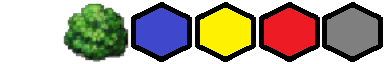
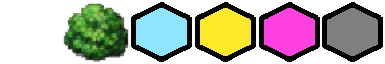
fallのやつだけスコアやりました

Changed region(s): [[0.3429, 0.125, 0.6545, 0.875], [0.6857, 0.125, 0.8416, 0.875]]

diff --git a/00_vivid2d 2.9 空のプロジェクト/game/src/game/scene_manager/scene/game_risult/game_risult.cpp b/00_vivid2d 2.9 空のプロジェクト/game/src/game/scene_manager/scene/game_risult/game_risult.cpp
@@ -1,13 +1,28 @@
 #include "game_risult.h"
 #include"../../scene_manager.h"
 #include"../../../object/player_manager/player_manager.h"
-CGame_Result::CGame_Result()
-{
+#include"../color_select/color_select.h"
 
+	const int CGame_Result::m_max_score=999999999;//最大スコア
+	const int CGame_Result::m_max_score_digiit=9;//表示桁数
+	const int CGame_Result::m_digit_width=32;
+	const int CGame_Result::m_digit_height=48;
+
+CGame_Result::CGame_Result()
+	:m_Player1_Ready(false)
+	,m_Player2_Ready(false)
+	, m_ (false)
+
+{
 }
 
 void CGame_Result::Initialize()
 {
+	m_Player1_Ready = false;
+	m_Player2_Ready = false;
+	m_Player1_Score_Pos = { 200,300 };
+	m_Player2_Score_Pos = {680,300};
+	m_ = false;
 }
 
 void CGame_Result::Update()
@@ -18,22 +33,167 @@ void CGame_Result::Update()
 	{
 		CSceneManager::GetInstance().Change(SCENE_ID::GAMEMAIN);
 	}
+	if (controller::Trigger(controller::DEVICE_ID::PLAYER1, controller::BUTTON_ID::B)||keyboard::Trigger(keyboard::KEY_ID::SPACE))
+		m_Player1_Ready = true;
+	if (controller::Trigger(controller::DEVICE_ID::PLAYER2, controller::BUTTON_ID::B) || keyboard::Trigger(keyboard::KEY_ID::SPACE))
+		m_Player2_Ready = true;
+	if (m_Player1_Ready && m_Player2_Ready)
+			CSceneManager::GetInstance().Change(SCENE_ID::GAMEMAIN);
+
 	if (CPlayer_Manager::GetInstance().Player1_Win() == true)
-		if (controller::Trigger(controller::DEVICE_ID::PLAYER1, controller::BUTTON_ID::B))
-			CSceneManager::GetInstance().Change(SCENE_ID::GAMEMAIN);
-	 if (CPlayer_Manager::GetInstance().Player2_Win() == true)
-		if (controller::Trigger(controller::DEVICE_ID::PLAYER2, controller::BUTTON_ID::B))
-			CSceneManager::GetInstance().Change(SCENE_ID::GAMEMAIN);
+	{
+		if (!CColor_Select::GetInstance().GetCyan() &&
+			!CColor_Select::GetInstance().GetYellow() &&
+			!CColor_Select::GetInstance().GetMagenta())
+		{
+			if (m_)return;
+			m_Player1_Score += 30;
+			m_ = true;
+		}
+		else if (!CColor_Select::GetInstance().GetCyan() && !CColor_Select::GetInstance().GetYellow())
+		{
+			if (m_)return;
+			m_Player1_Score += 20;
+			m_ = true;
+		}
+		else if (!CColor_Select::GetInstance().GetCyan() && !CColor_Select::GetInstance().GetMagenta())
+		{
+			if (m_)return;
+			m_Player1_Score += 20;
+			m_ = true;
+		}
+		else if (!CColor_Select::GetInstance().GetYellow() && !CColor_Select::GetInstance().GetMagenta())
+		{
+			if (m_)return;
+			m_Player1_Score += 20;
+			m_ = true;
+		}
+		else if (!CColor_Select::GetInstance().GetCyan()
+			|| !CColor_Select::GetInstance().GetYellow()
+			|| !CColor_Select::GetInstance().GetMagenta())
+		{
+			if (m_)return;
+			m_Player1_Score += 10;
+			m_ = true;
+
+		}
+	}
+	if (CPlayer_Manager::GetInstance().Player2_Win() == true)
+	{
+		if (!CColor_Select::GetInstance().GetCyan() &&
+			!CColor_Select::GetInstance().GetYellow() &&
+			!CColor_Select::GetInstance().GetMagenta())
+		{
+			if (m_)return;
+			m_Player2_Score += 30;
+			m_ = true;
+		}
+		else if (!CColor_Select::GetInstance().GetCyan() && !CColor_Select::GetInstance().GetYellow())
+		{
+			if (m_)return;
+			m_Player2_Score += 20;
+			m_ = true;
+		}
+		else if (!CColor_Select::GetInstance().GetCyan() && !CColor_Select::GetInstance().GetMagenta())
+		{
+			if (m_)return;
+			m_Player2_Score += 20;
+			m_ = true;
+		}
+		else if (!CColor_Select::GetInstance().GetYellow() && !CColor_Select::GetInstance().GetMagenta())
+		{
+			if (m_)return;
+			m_Player2_Score += 20;
+			m_ = true;
+		}
+		else if (!CColor_Select::GetInstance().GetCyan()
+			|| !CColor_Select::GetInstance().GetYellow()
+			|| !CColor_Select::GetInstance().GetMagenta())
+		{
+			if (m_)return;
+			m_Player2_Score += 10;
+			m_ = true;
+
+		}
+	}
+	
 }
 
 void CGame_Result::Draw()
 {
-	if (CPlayer_Manager::GetInstance().Draw_Battle() == true)
+	vivid::DrawText(40, "1P", vivid::Vector2{ 300,250 });
+	vivid::DrawText(40, "2P", vivid::Vector2{ 780,250 });
+
+	if (CPlayer_Manager::GetInstance().Draw_Battle())
 		vivid::DrawText(40, "DRAW", vivid::Vector2{ vivid::WINDOW_WIDTH * 0.5,vivid::WINDOW_HEIGHT * 0.5 });
-	 else if (CPlayer_Manager::GetInstance().Player1_Win() == true)
-		vivid::DrawText(40,"1PWIN", vivid::Vector2{ 350,250 });
-	 else if(CPlayer_Manager::GetInstance().Player2_Win() == true)
-		vivid::DrawText(40,"2PWIN", vivid::Vector2{830,250 });
+	 else if (CPlayer_Manager::GetInstance().Player1_Win())
+		vivid::DrawText(40,"WIN", vivid::Vector2{ 350,250 });
+	 else if(CPlayer_Manager::GetInstance().Player2_Win())
+		vivid::DrawText(40,"WIN", vivid::Vector2{830,250 });
+
+	if (m_Player1_Ready)
+		vivid::DrawText(40, "1POK", vivid::Vector2{ 350,350 });
+	if (m_Player2_Ready)
+		vivid::DrawText(40, "2POK", vivid::Vector2{ 830,350 });
+	
+
+	// 1P
+	{
+		int score = m_Player1_Score;
+		int digit_count = 1;
+
+		do
+		{
+			int digit = score % 10;
+
+			vivid::Rect rect;
+			rect.left = digit * m_digit_width;
+			rect.right = rect.left + m_digit_width;
+			rect.top = 0;
+			rect.bottom = m_digit_height;
+
+			vivid::Vector2 pos;
+			pos.x = m_Player1_Score_Pos.x +
+				m_digit_width * (m_max_score_digiit - digit_count);
+			pos.y = m_Player1_Score_Pos.y;
+
+			vivid::DrawTexture("data/number.png", pos, 0xffffffff, rect);
+
+			score /= 10;
+			++digit_count;
+
+		} while (score > 0 && digit_count <= m_max_score_digiit);
+	}
+
+	// 2P
+	{
+		int score = m_Player2_Score;
+		int digit_count = 1;
+
+		do
+		{
+			int digit = score % 10;
+
+			vivid::Rect rect;
+			rect.left = digit * m_digit_width;
+			rect.right = rect.left + m_digit_width;
+			rect.top = 0;
+			rect.bottom = m_digit_height;
+
+			vivid::Vector2 pos;
+			pos.x = m_Player2_Score_Pos.x +
+				m_digit_width * (m_max_score_digiit - digit_count);
+			pos.y = m_Player2_Score_Pos.y;
+
+			vivid::DrawTexture("data/number.png", pos, 0xffffffff, rect);
+
+			score /= 10;
+			++digit_count;
+
+		} while (score > 0 && digit_count <= m_max_score_digiit);
+	}
+	
+	
 }
 
 void CGame_Result::Finalize()

diff --git a/00_vivid2d 2.9 空のプロジェクト/game/src/game/scene_manager/scene/color_select/color_select.h b/00_vivid2d 2.9 空のプロジェクト/game/src/game/scene_manager/scene/color_select/color_select.h
@@ -15,8 +15,8 @@ public:
 	void ColorPic(void);
 
 	void IniColor();
-	bool GetBlue() { return m_Blue; }
-	bool GetRed() { return m_Red; }
+	bool GetCyan() { return m_Cyan; }
+	bool GetMagenta() { return m_Magenta; }
 	bool GetYellow() { return m_Yellow; }
 	static CColor_Select& GetInstance();
 
@@ -49,16 +49,16 @@ private:
 	static const std::string m_button_file[(int)COLOR::MAX];//ボタン画像名
 	static const int m_button_x[(int)COLOR::MAX];			//ボタンのx座標
 	static const int m_button_y;						    //ボタンのy座標
-	static const vivid::Vector2 m_Blue_Pos;
+	static const vivid::Vector2 m_Cyan_Pos;
 	static const vivid::Vector2 m_Yellow_Pos;
-	static const vivid::Vector2 m_Red_Pos;
+	static const vivid::Vector2 m_Magenta_Pos;
 	static const unsigned int m_selected_color;//一回選ばれたことのある色用
 	
 	//変数
 	vivid::Vector2 m_color_pos;
-	bool m_Blue;
+	bool m_Cyan;
 	bool m_Yellow;
-	bool m_Red;
+	bool m_Magenta;
 	vivid::Vector2 m_Button_Pos;//選択中のボタンの座標
 	vivid::Vector2 m_Finger_Pos;//選択印(指)の座標
 	vivid::Vector2 m_Player1_Stick;//スティックx左右 y上下

diff --git a/00_vivid2d 2.9 空のプロジェクト/game/src/game/object/minigame_manager/fall/fall.cpp b/00_vivid2d 2.9 空のプロジェクト/game/src/game/object/minigame_manager/fall/fall.cpp
@@ -73,7 +73,7 @@ void CFall::Initialize()
 	//一時的なデータを削除
 	delete[] buf;
 
-	if (CColor_Select::GetInstance().GetBlue() == false)
+	if (CColor_Select::GetInstance().GetCyan() == false)
 	{
 		for (int i = 1; i < m_map_chip_count_height - 1; ++i)
 		{
@@ -90,9 +90,9 @@ void CFall::Initialize()
 void CFall::Update()
 {
 
-	bool Get_Floor_Color[3] = { CColor_Select::GetInstance().GetBlue(),
+	bool Get_Floor_Color[3] = { CColor_Select::GetInstance().GetCyan(),
 								CColor_Select::GetInstance().GetYellow(),
-								CColor_Select::GetInstance().GetRed() };
+								CColor_Select::GetInstance().GetMagenta() };
 
 
 	//配列で1P,2Pの位置を記憶

diff --git a/00_vivid2d 2.9 空のプロジェクト/game/src/game/scene_manager/scene/game_risult/game_risult.h b/00_vivid2d 2.9 空のプロジェクト/game/src/game/scene_manager/scene/game_risult/game_risult.h
@@ -17,4 +17,21 @@ private:
 	CGame_Result& operator=(const CGame_Result& rhp) = delete;
 
 	~CGame_Result(void) = default;
+
+	//定数
+	static	const int m_max_score;//最大スコア
+	static	const int m_max_score_digiit;//表示桁数
+	static	const int m_digit_width;
+	static	const int m_digit_height;
+
+	//変数
+	bool m_Player1_Ready;
+	bool m_Player2_Ready;
+	int m_Player1_Score;
+	int m_Player2_Score;
+	vivid::Vector2 m_Player1_Score_Pos;
+	vivid::Vector2 m_Player2_Score_Pos;
+
+	bool m_;
+
 };

diff --git a/00_vivid2d 2.9 空のプロジェクト/game/src/game/object/minigame_manager/ball_manager/ball/ball.cpp b/00_vivid2d 2.9 空のプロジェクト/game/src/game/object/minigame_manager/ball_manager/ball/ball.cpp
@@ -63,9 +63,9 @@ void CBall::Update(void)
 //描画
 void CBall::Draw(void)
 {
-	bool BlueEnable = CColor_Select::GetInstance().GetBlue();
+	bool BlueEnable = CColor_Select::GetInstance().GetCyan();
 	bool YellowEnable = CColor_Select::GetInstance().GetYellow();
-	bool RedEnable = CColor_Select::GetInstance().GetRed();
+	bool RedEnable = CColor_Select::GetInstance().GetMagenta();
 
 	vivid::Rect rect = { 0,0,m_ball_width,m_ball_height };
 

diff --git a/00_vivid2d 2.9 空のプロジェクト/game/src/game/scene_manager/scene/stage/stage1/stage1.cpp b/00_vivid2d 2.9 空のプロジェクト/game/src/game/scene_manager/scene/stage/stage1/stage1.cpp
@@ -65,7 +65,7 @@ void CStage1::Update(void)
 
 		vivid::DrawText(100, "ClearCount +1", { 0,50 });
 		//4回目からリザルト
-		if (CSceneManager::GetInstance().FinishStage() >= 3)
+		if (CSceneManager::GetInstance().FinishStage() >= 4)
 		{
 			CSceneManager::GetInstance().Change(SCENE_ID::RESULT);
 		}
